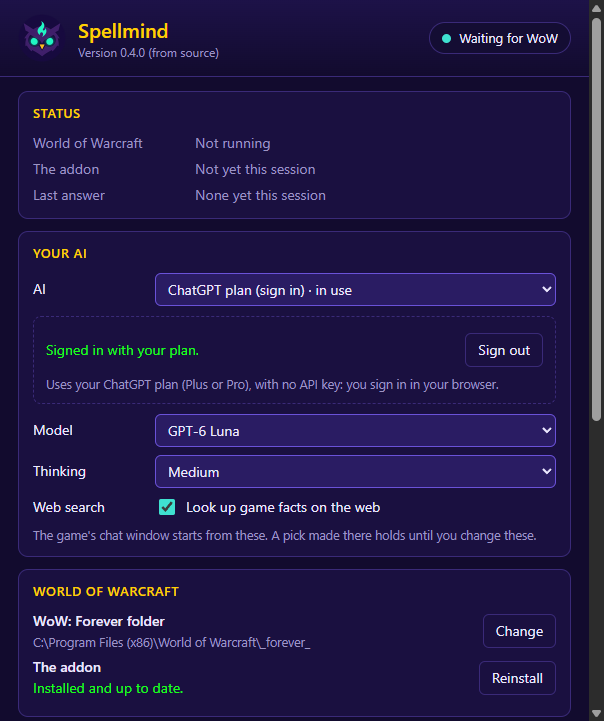
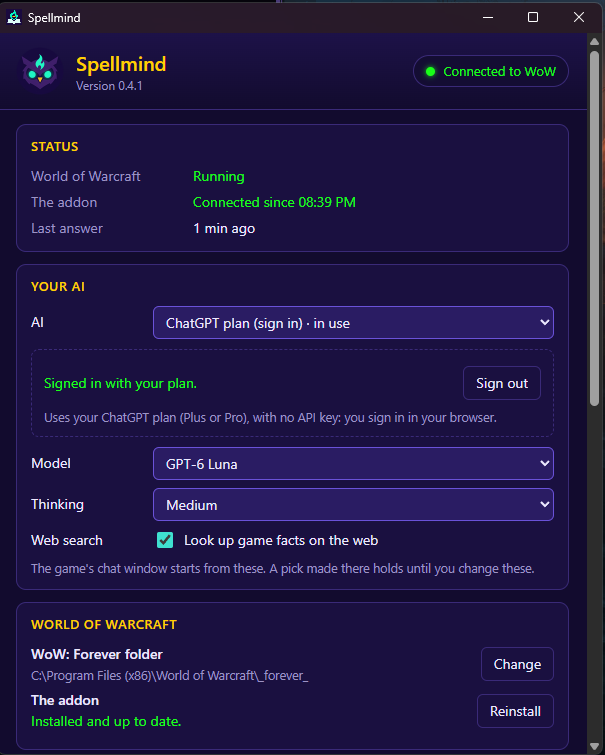
0.4.2: the README's new screenshots; long guide steps cut at a word with "…"
- README: the chat (a quest reward judged, then the route) on top; Break it down and the Auction
  House answer; the Quests, Dungeons, Spells, Talents and Settings tabs; the app connected. All
  checked for names; the Dungeons shot now lives in the repository.
- Spells tab: a guide step longer than its row was cut mid-word ("…before the mob d"); it's cut at
  a word with "…" now (ns.ShortLine). The AI still gets the whole step.

Changed region(s): [[0.0, 0.0, 1.0, 1.0], [0.298, 0.1831, 0.596, 0.3356]]

diff --git a/README.md b/README.md
@@ -18,7 +18,7 @@
 </p>
 
 <p align="center">
-  <img src="docs/images/chat-answer.png" alt="Spellmind's chat window answering how to get from Ironforge to the Deadmines quests in Westfall" width="760">
+  <img src="docs/images/chat-gear-and-route.png" alt="Spellmind's chat window: a shift-clicked quest reward judged against the gloves you wear, then what's left to do in Westfall, with the quest givers and the road to Lakeshire, and follow-up questions" width="760">
 </p>
 
 > **Unofficial.** Spellmind isn't made, reviewed or endorsed by Blizzard Entertainment. World of Warcraft is a trademark of Blizzard Entertainment, Inc.
@@ -38,30 +38,58 @@ Spellmind is two parts:
 | "Break it down" on quests, items, trainers and merchants | | ✓ |
 | Read your leveling guide's page (talents, rotation) | | ✓ |
 
+### Ask your AI, in game
+
 <table>
   <tr>
-    <td width="50%"><img width="1066" height="844" alt="The Dungeons tab: the Deadmines quests in your log, the questlines that lead there with the step you're on and who to hand it to, and the dungeons at your level" src="https://github.com/user-attachments/assets/ea80be2c-cb7b-4074-acd4-bbbc3c4a7720" /></td>
-    <td width="50%"><img src="docs/images/talents-tab.png" alt="The Talents tab: your guide's next points and other builds"></td>
+    <td width="55%"><img src="docs/images/break-it-down.png" alt="Break it down on a quest: beside the quest log, a card says to hand The Defias Brotherhood to Wiley the Black upstairs in the Lakeshire inn, and the road there from Duskwood"></td>
+    <td width="45%"><img src="docs/images/chat-auction-house.png" alt="The chat answering what in your bags is worth selling on the Auction House: gems, leather and a recipe, and to keep the leatherworking materials for your own skill-ups"></td>
   </tr>
   <tr>
-    <td><b>Dungeons:</b> which dungeons your quests are for, what each needs first and who gives it, and what's at your level.</td>
+    <td><b>Break it down:</b> click the Spellmind mark on a quest, an item, a trainer or a merchant, and your AI explains that exact thing.</td>
+    <td><b>Chat:</b> ask about your gear, bags, route, talents or gold. Shift-click items and quests into the box; the buttons under an answer ask the obvious next question.</td>
+  </tr>
+</table>
+
+### The panel, no AI needed
+
+<table>
+  <tr>
+    <td width="50%"><img src="docs/images/quests-tab.png" alt="The Quests tab: quests ready to turn in with their XP and distance, how far they take you into your level, and the dungeon your quests are for"></td>
+    <td width="50%"><img src="docs/images/dungeons-tab.png" alt="The Dungeons tab: the Deadmines quests in your log, the questlines that lead there with the step you're on and who to hand it to, and the dungeons at your level"></td>
+  </tr>
+  <tr>
+    <td><b>Quests:</b> what to turn in, what to do now and here, and what's worth skipping, with Go to set a waypoint.</td>
+    <td><b>Dungeons:</b> which dungeons your quests are for, the questlines that lead there, and what's at your level.</td>
+  </tr>
+  <tr>
+    <td><img src="docs/images/spells-tab.png" alt="The Spells tab: what your trainer has for you now and what it costs, what comes next by level, and your guide's priority"></td>
+    <td><img src="docs/images/talents-tab.png" alt="The Talents tab: your guide's next points and other builds"></td>
+  </tr>
+  <tr>
+    <td><b>Spells:</b> what to train now and what it costs, what's coming, and your guide's rotation.</td>
     <td><b>Talents:</b> your leveling guide's build, read by your AI, with the next points to take.</td>
   </tr>
   <tr>
     <td><img src="docs/images/settings-tab.png" alt="The Settings tab: switches for each mark on the game's windows and each kind of nudge"></td>
-    <td><img src="docs/images/desktop-app.png" alt="The desktop app's window: Status, Your AI (signed in with a ChatGPT plan, GPT-6 Luna, Medium thinking, web search on) and the WoW folder"></td>
+    <td>
+      <img src="docs/images/nudge-toast.png" alt="A nudge: 5 spells to train, with Dismiss and Ask"><br><br>
+      <img src="docs/images/tooltip-quest.png" alt="Spellmind's tooltip on a quest: its level against yours, what's left, where it is on the map and the rewards">
+    </td>
   </tr>
   <tr>
     <td><b>Settings:</b> every mark and nudge has its own switch, and you choose which game data your AI gets.</td>
-    <td><b>The app:</b> pick your AI, its model and thinking level. It sits by the clock and keeps the addon up to date.</td>
+    <td><b>Nudges and tooltips:</b> a quiet toast when something's waiting, and Spellmind's lines on quests and items.</td>
   </tr>
 </table>
 
+### The app
+
 <p>
-  <img src="docs/images/nudge-toast.png" alt="A nudge: 5 spells to train, with Dismiss and Ask" height="80">
-  &nbsp;
-  <img src="docs/images/tooltip-quest.png" alt="Spellmind's tooltip on a quest: its level against yours, what's left, where it is on the map and the rewards" height="150">
+  <img src="docs/images/desktop-app.png" alt="The desktop app's window: connected to WoW, signed in with a ChatGPT plan, GPT-6 Luna at Medium thinking with web search on, and the addon up to date" width="420">
 </p>
+
+Pick your AI, its model and thinking level. It sits by the clock while you play, keeps the addon up to date and updates itself.
 
 ## Your AI, your choice
 

diff --git a/docs/milestone-22.md b/docs/milestone-22.md
@@ -30,6 +30,6 @@ Built 2026-11-13: what Spellmind needs to be on GitHub and CurseForge.
 
 ## Still to do
 
-- Fresh screenshots of the Quests, Gear and Spells tabs in today's layout, and of the minimap button.
+- Screenshots still missing: the Gear tab in today's layout, the minimap button, and a talent plan answer (after 0.4.2, which sends the AI 10 next points).
 - The SignPath application, then the signing step.
 - The CurseForge project (Beta), by hand.
